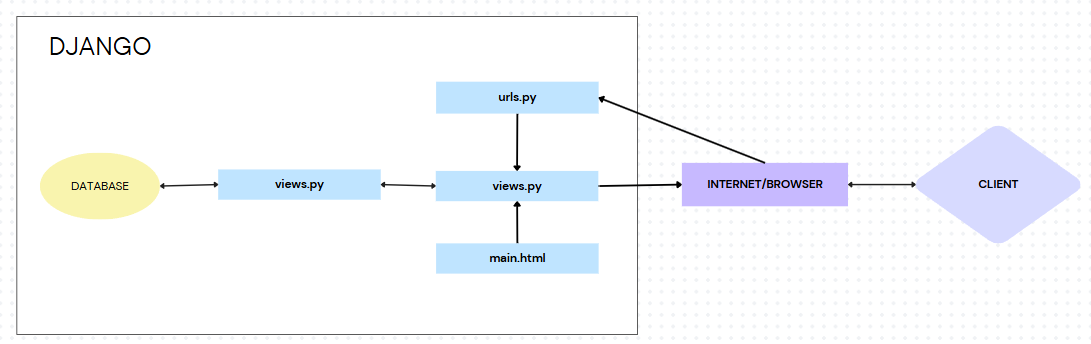
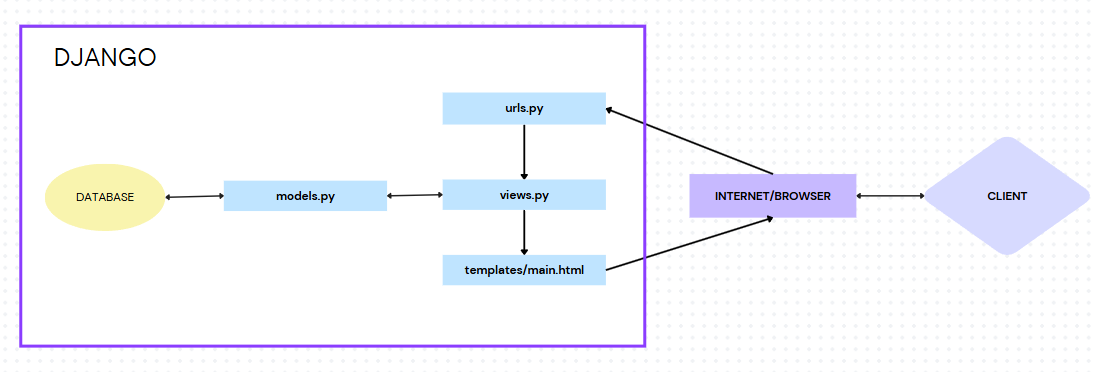
UPDATE README and FIX the diagrams.png

diff --git a/README.md b/README.md
@@ -109,3 +109,26 @@ Beberapa alasan menurut pengalaman saya sejuah ini adalah karena Django menyedia
 
 ### Mengapa model pada Django disebut sebagai ORM?
 ORM adalah alat yang menerjemahkan kode Python menjadi `SQL`. Di Django, kita hanya perlu mendefinisikan model dan atributnya menggunakan Python, lalu model tersebut akan diubah menjadi `SQL` melalui proses migrasi dan disimpan di folder migrations.
+
+
+# Assignment 3: Implementation of Forms and Data Delivery in Django
+## Checklist Tugas
+
+- [x] Membuat input `form` untuk menambahkan objek model pada app sebelumnya.
+- [x] Tambahkan 4 fungsi `views` baru untuk melihat objek yang sudah ditambahkan dalam format XML, JSON, XML _by_ ID, dan JSON _by_ ID.
+- [x] Membuat routing URL untuk masing-masing `views` yang telah ditambahkan pada poin 2.
+- [x] Menjawab beberapa pertanyaan berikut pada `README.md` pada _root_ folder.
+
+### Jelaskan mengapa kita memerlukan _data delivery_ dalam pengimplementasian sebuah platform?
+
+### Menurutmu, mana yang lebih baik antara XML dan JSON? Mengapa JSON lebih populer dibandingkan XML?
+
+### Jelaskan fungsi dari method `is_valid()` pada form Django dan mengapa kita membutuhkan method tersebut?
+
+### Mengapa kita membutuhkan `csrf_token` saat membuat form di Django? Apa yang dapat terjadi jika kita tidak menambahkan `csrf_token` pada form Django? Bagaimana hal tersebut dapat dimanfaatkan oleh penyerang?
+
+### Jelaskan bagaimana cara kamu mengimplementasikan _checklist_ di atas secara _step-by-step_ (bukan hanya sekadar mengikuti tutorial).
+
+- [x] Mengakses keempat URL di poin 2 menggunakan Postman, membuat _screenshot_ dari hasil akses URL pada Postman, dan menambahkannya ke dalam `README.md`.
+
+- [x] Melakukan `add`-`commit`-`push` ke GitHub.
